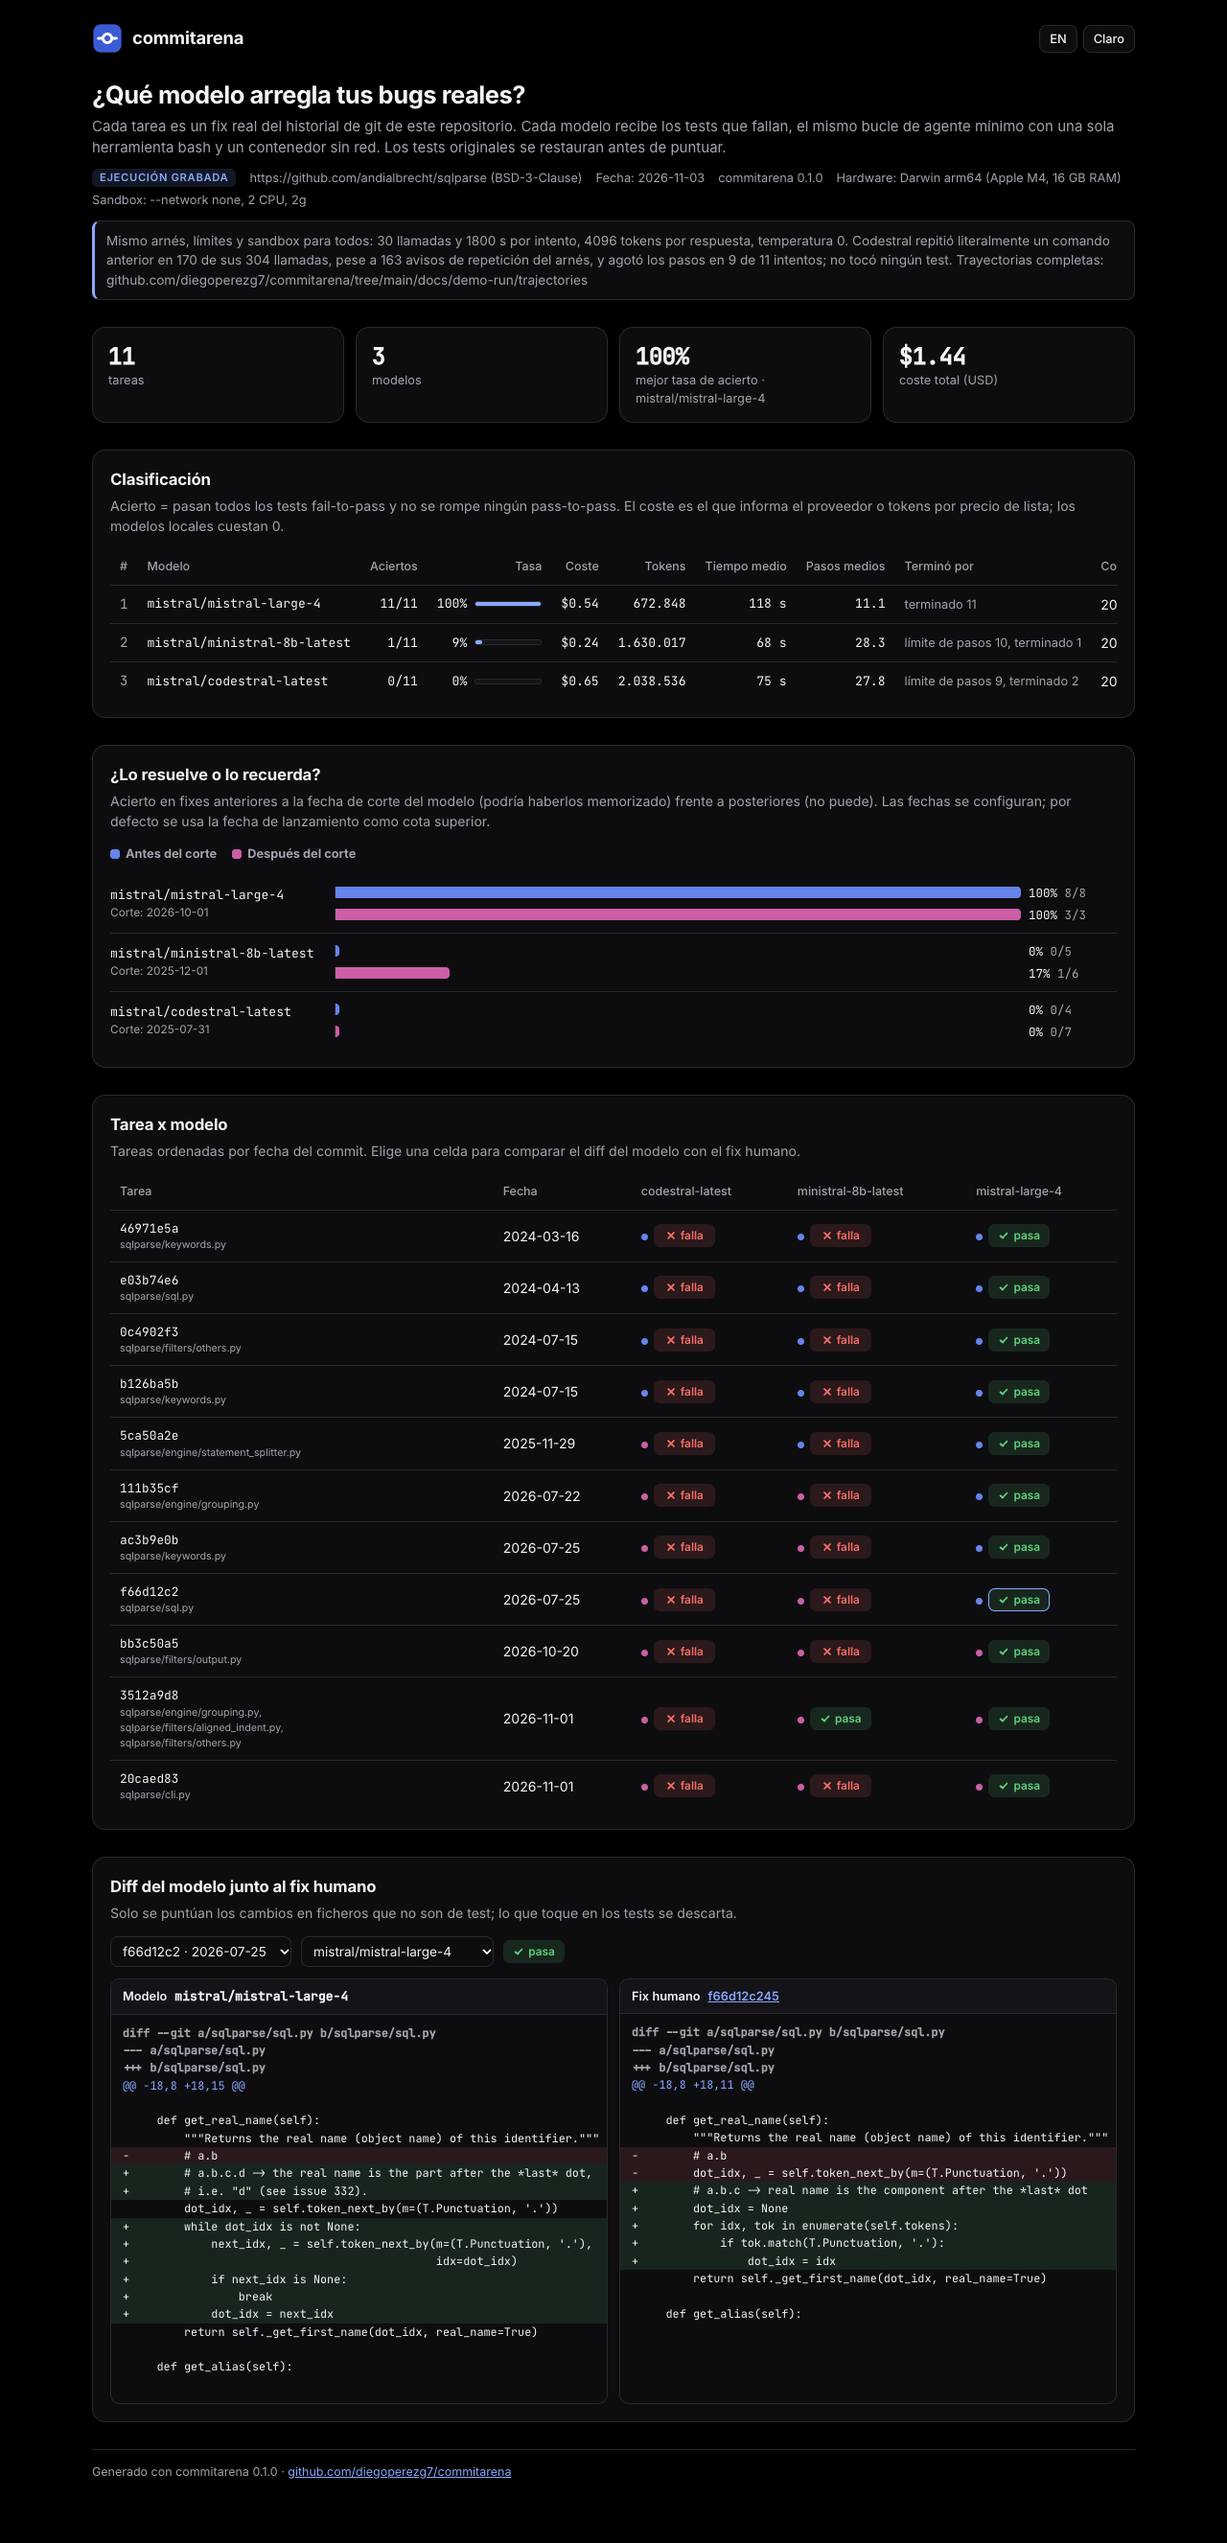
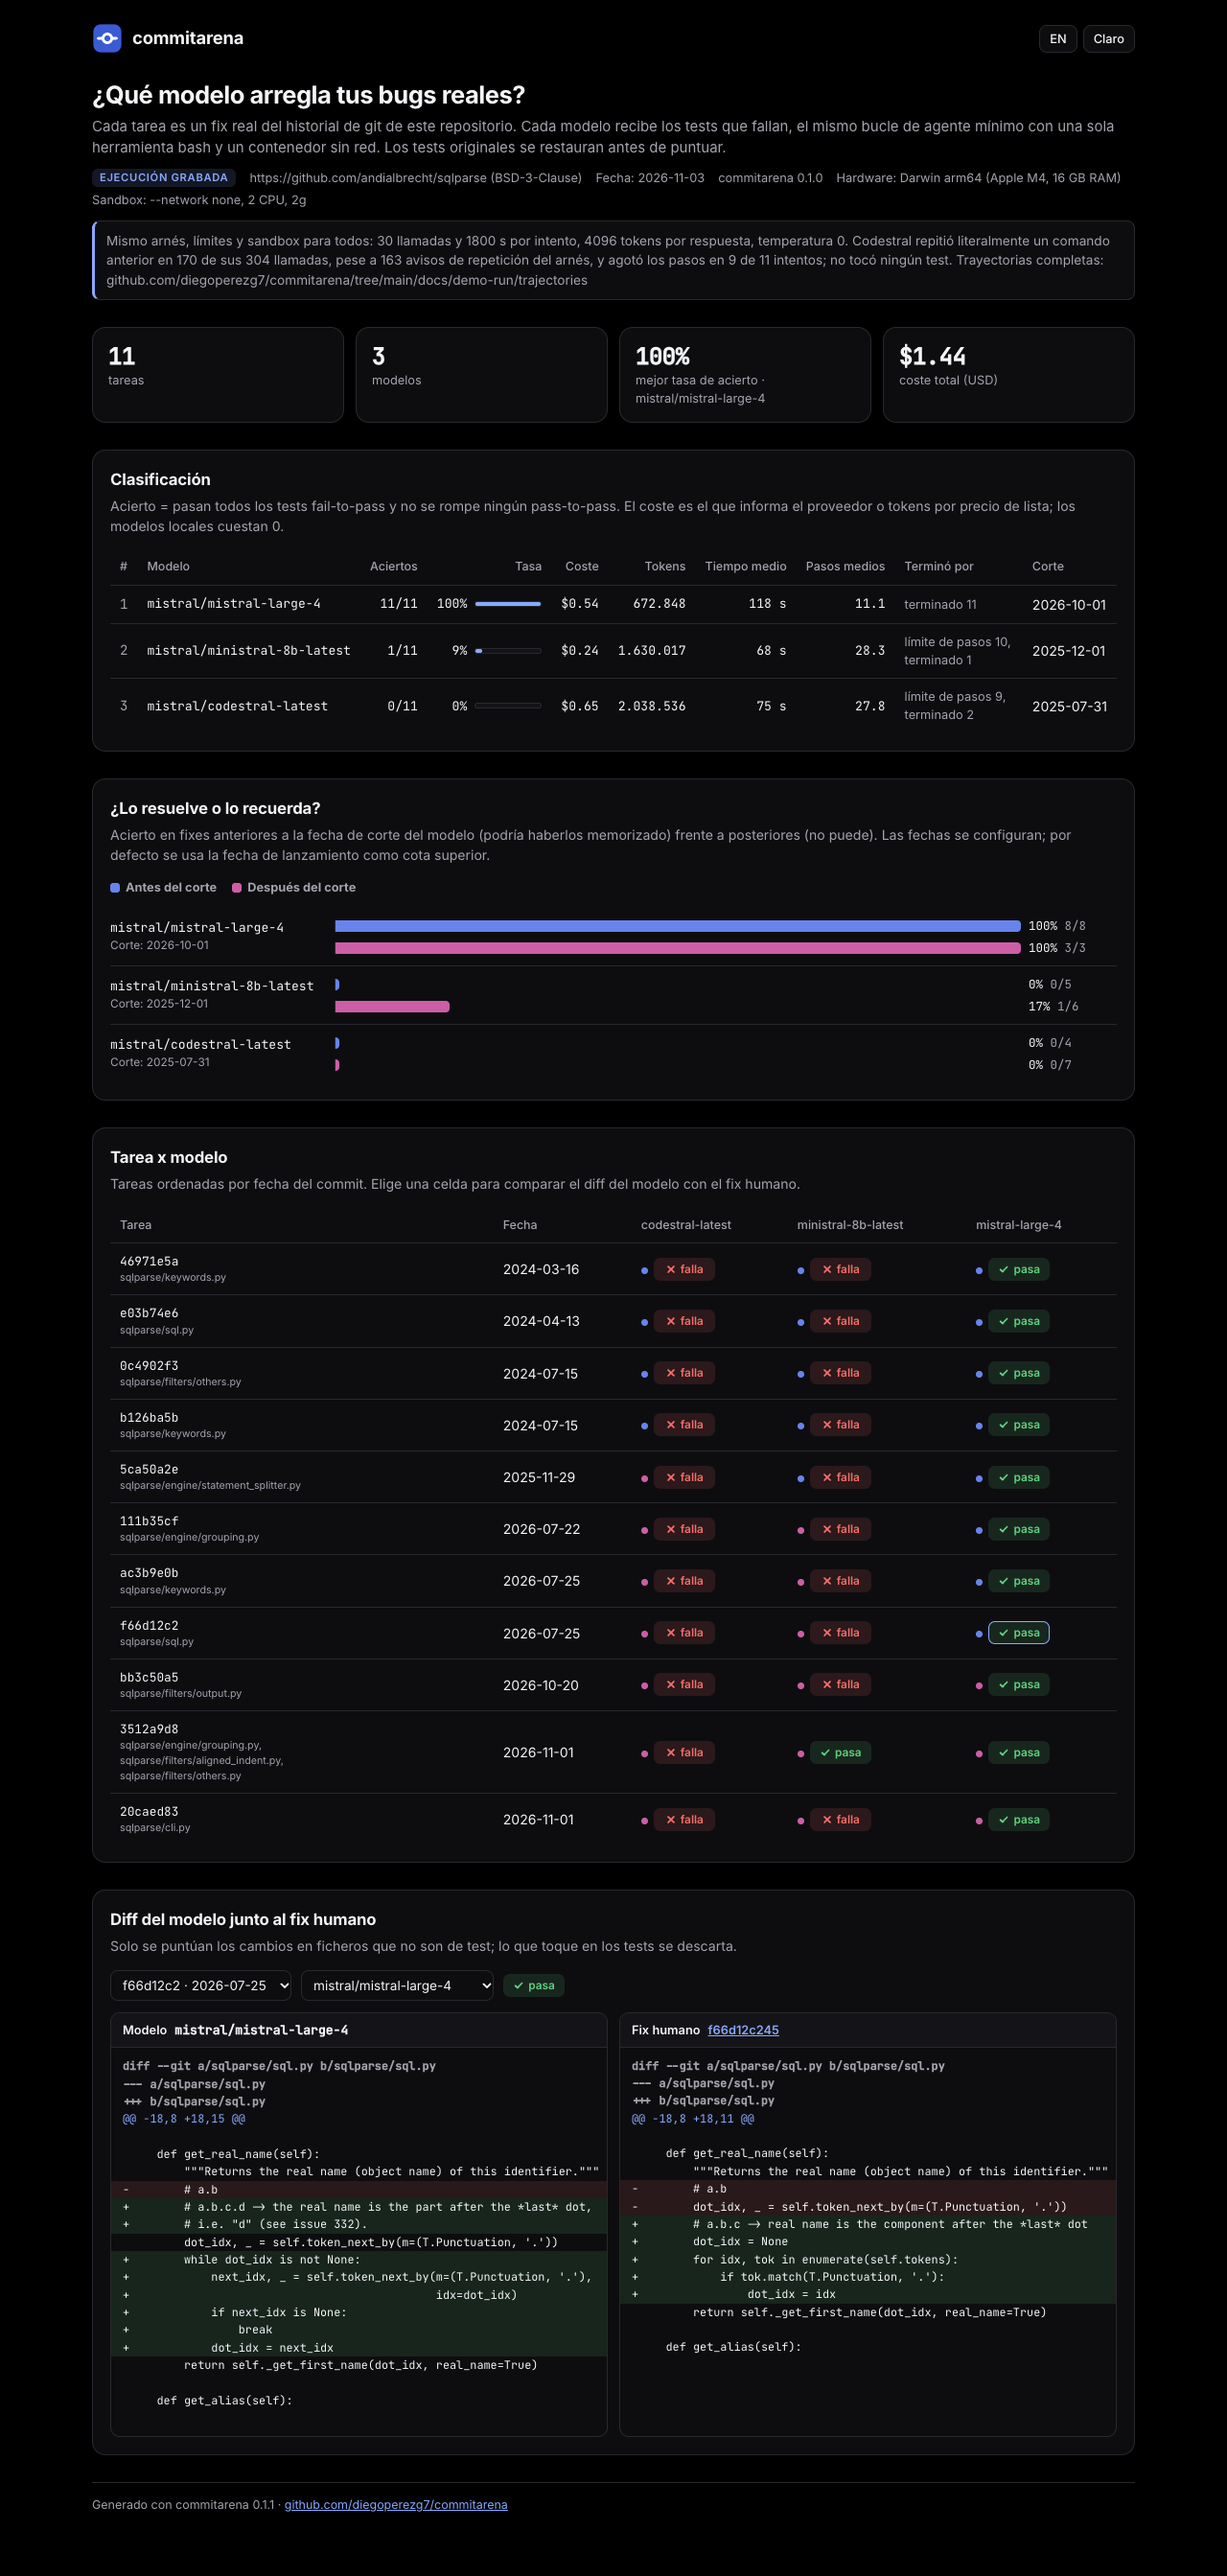
fix(report): leaderboard fits at 1280 px, no page overflow at 390 px; v0.1.1

diff --git a/src/commitarena/report_template.html b/src/commitarena/report_template.html
@@ -45,7 +45,7 @@
 * { box-sizing: border-box; }
 html, body { margin: 0; }
 body { background: var(--bg); color: var(--text); font: 15px/1.5 var(--sans); -webkit-font-smoothing: antialiased; }
-.wrap { max-width: 1120px; margin: 0 auto; padding: 24px 16px 64px; display: grid; gap: 28px; min-width: 0; }
+.wrap { max-width: 1120px; margin: 0 auto; padding: 24px 16px 64px; display: grid; grid-template-columns: minmax(0, 1fr); gap: 28px; min-width: 0; }
 header.top { display: flex; align-items: center; gap: 12px; flex-wrap: wrap; }
 .brand { display: flex; align-items: center; gap: 10px; font-weight: 700; font-size: 1.15rem; letter-spacing: -.01em; }
 .brand svg { width: 32px; height: 32px; }
@@ -74,7 +74,7 @@ td.num, th.num { text-align: right; }
 td.num { font-family: var(--mono); font-size: .82rem; }
 tr:last-child td { border-bottom: 0; }
 .rank { color: var(--muted); font-family: var(--mono); }
-td.stops { color: var(--muted); font-size: .8rem; }
+td.stops { color: var(--muted); font-size: .8rem; white-space: normal; min-width: 130px; max-width: 190px; }
 .model { font-family: var(--mono); font-size: .82rem; }
 .rate { display: flex; align-items: center; gap: 8px; justify-content: flex-end; }
 .meter { width: 70px; height: 6px; border-radius: 3px; background: var(--surface-2); border: 1px solid var(--border); overflow: hidden; }

diff --git a/src/commitarena/__init__.py b/src/commitarena/__init__.py
@@ -1,6 +1,6 @@
 """commitarena: replay real bug fixes from git history against any model, in a sandbox with no network."""
 
-__version__ = "0.1.0"
+__version__ = "0.1.1"
 
 from .agent import SYSTEM_PROMPT, AgentConfig  # noqa: E402
 from .errors import (  # noqa: E402

diff --git a/tests/test_cli.py b/tests/test_cli.py
@@ -21,7 +21,7 @@ def _main(args, monkeypatch, capsys):
 
 def test_version():
     r = runner.invoke(app, ["--version"])
-    assert r.exit_code == 0 and "0.1.0" in r.stdout
+    assert r.exit_code == 0 and "0.1.1" in r.stdout
 
 
 def test_demo_works_offline(tmp_path):

diff --git a/README.es.md b/README.es.md
@@ -48,7 +48,7 @@ Tres cosas que commitarena hace a propósito:
 La demo no necesita claves ni Docker. Muestra una ejecución grabada y escribe el informe HTML.
 
 ```bash
-uvx --from git+https://github.com/diegoperezg7/commitarena@v0.1.0 commitarena demo
+uvx --from git+https://github.com/diegoperezg7/commitarena@v0.1.1 commitarena demo
 ```
 
 O desde un clon:

diff --git a/README.md b/README.md
@@ -47,7 +47,7 @@ Three things commitarena does on purpose:
 The demo needs no API keys and no Docker. It prints a recorded run and writes the HTML report.
 
 ```bash
-uvx --from git+https://github.com/diegoperezg7/commitarena@v0.1.0 commitarena demo
+uvx --from git+https://github.com/diegoperezg7/commitarena@v0.1.1 commitarena demo
 ```
 
 Or from a clone:

diff --git a/CHANGELOG.md b/CHANGELOG.md
@@ -1,5 +1,10 @@
 # Changelog
 
+## 0.1.1 - 2026-11-03
+
+- Report: the leaderboard fits at 1280 px (the "Ended by" column wraps instead of pushing "Cutoff" out of the
+  card), and the page no longer overflows horizontally at 390 px; wide tables scroll inside their card.
+
 ## 0.1.0 - 2026-11-03
 
 First release.
